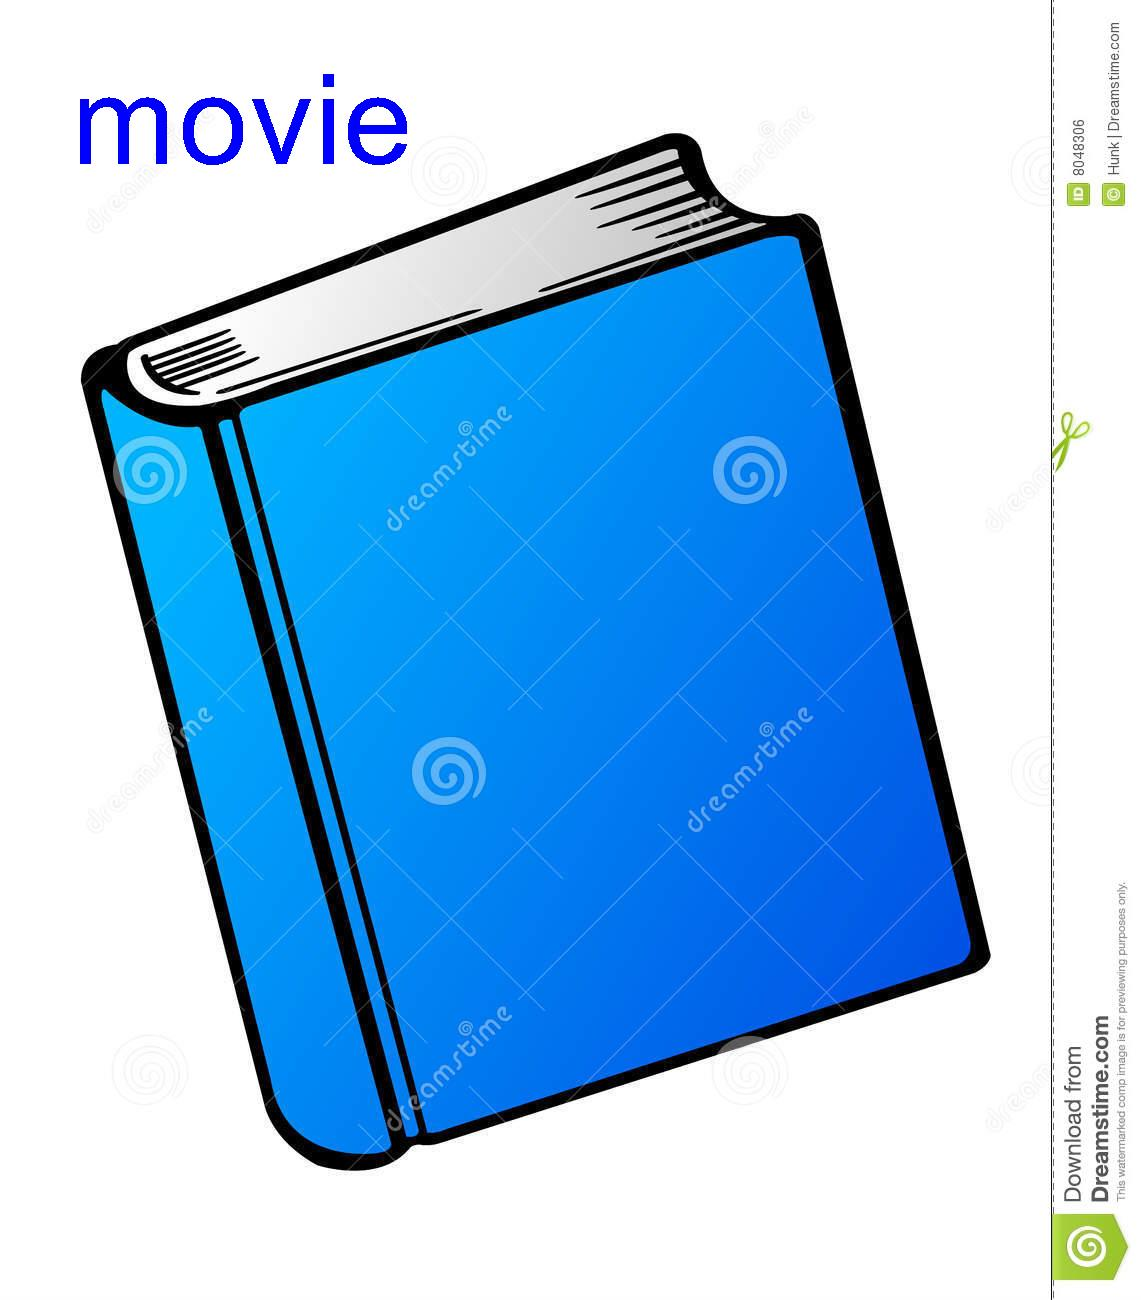
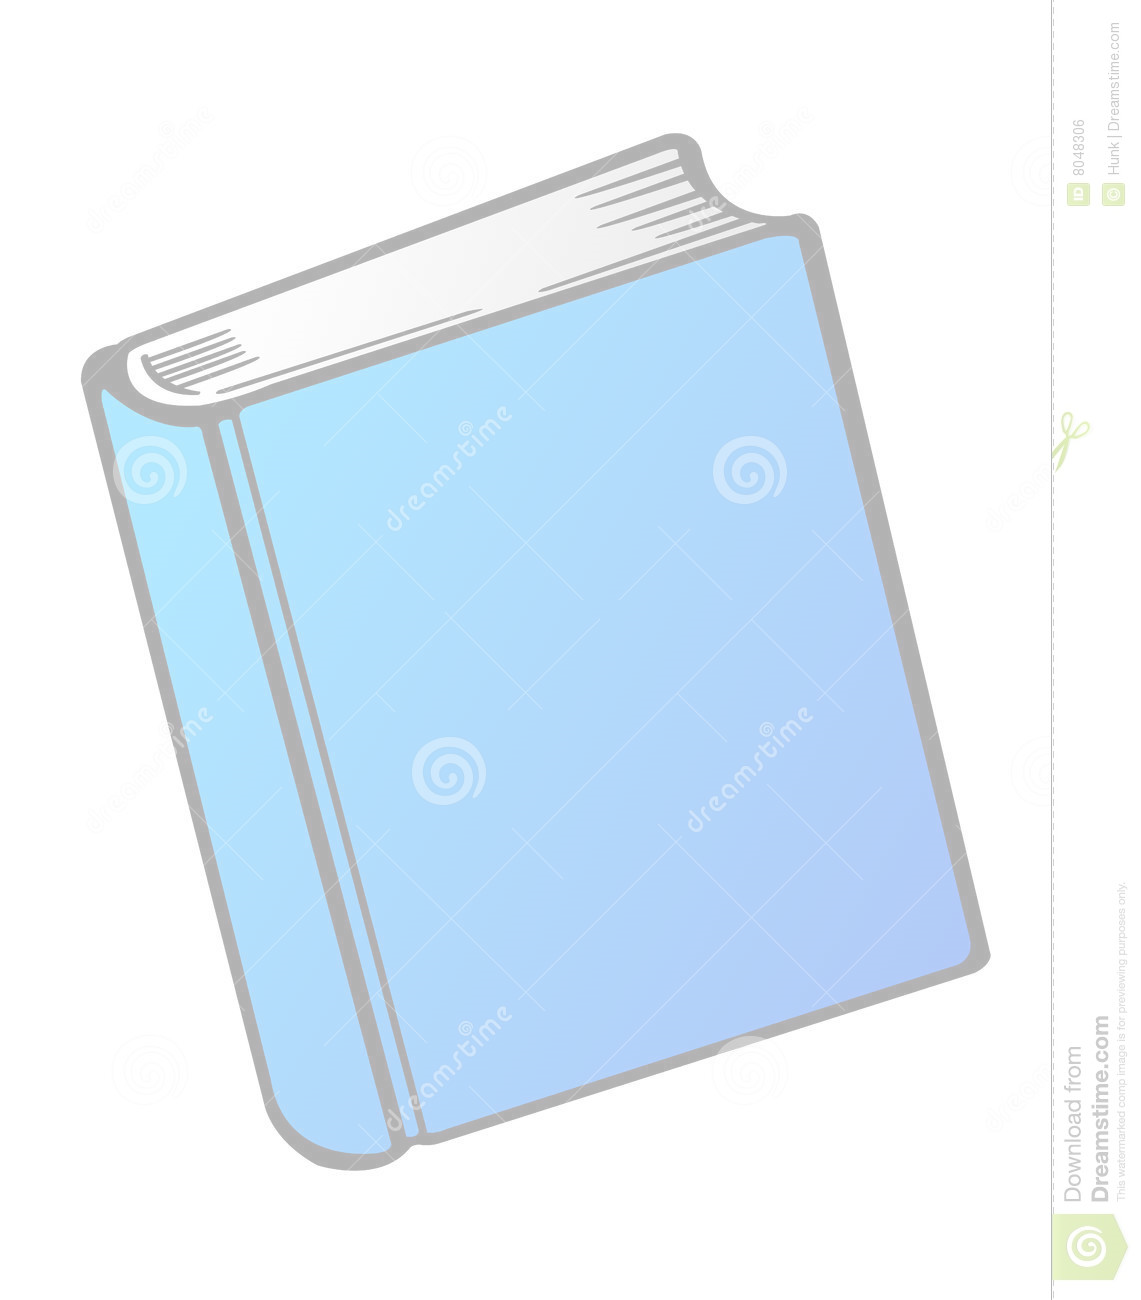
Yiyo 5

diff --git a/Prototype/Retoque.cs b/Prototype/Retoque.cs
@@ -1,6 +1,7 @@
 using System;
 using System.Collections.Generic;
 using System.Drawing;
+using System.Drawing.Imaging;
 using System.IO;
 using System.Text;
 
@@ -40,6 +41,94 @@ namespace Prototype
             img.Ranking = grade;
         }
 
+        //Creates a blank memory Bitmap having the same size dimensions as the source image
+        private static Bitmap GetArgbCopy(Image sourceImage)
+        {
+            Bitmap bmpNew = new Bitmap(sourceImage.Width, sourceImage.Height, PixelFormat.Format32bppArgb);
+
+
+            using (Graphics graphics = Graphics.FromImage(bmpNew))
+            {
+                graphics.DrawImage(sourceImage, new Rectangle(0, 0, bmpNew.Width, bmpNew.Height), new Rectangle(0, 0, bmpNew.Width, bmpNew.Height), GraphicsUnit.Pixel);
+                graphics.Flush();
+            }
+
+
+            return bmpNew;
+        }
+
+        // Agrega a nueva copia la matriz de color
+        private static Bitmap ApplyColorMatrix(Image imag, ColorMatrix colorMatrix)
+        {
+            Bitmap bmp32BppSource = GetArgbCopy(imag);
+            Bitmap bmp32BppDest = new Bitmap(bmp32BppSource.Width, bmp32BppSource.Height, PixelFormat.Format32bppArgb);
+
+
+            using (Graphics graphics = Graphics.FromImage(bmp32BppDest))
+            {
+                ImageAttributes bmpAttributes = new ImageAttributes();
+                bmpAttributes.SetColorMatrix(colorMatrix);
+
+                graphics.DrawImage(bmp32BppSource, new Rectangle(0, 0, bmp32BppSource.Width, bmp32BppSource.Height),
+                                    0, 0, bmp32BppSource.Width, bmp32BppSource.Height, GraphicsUnit.Pixel, bmpAttributes);
+
+
+            }
+
+            bmp32BppSource.Dispose();
+            return bmp32BppDest;
+        }
+        public static Bitmap Trasparente(this Image imag)
+        {
+            ColorMatrix colorMatrix = new ColorMatrix(new float[][]
+            {
+                new float[]{1, 0, 0, 0, 0},
+                new float[]{0, 1, 0, 0, 0},
+                new float[]{0, 0, 1, 0, 0},
+                new float[]{0, 0, 0, 0.3f, 0},
+                new float[]{0, 0, 0, 0, 1}
+            });
+
+            return ApplyColorMatrix(imag, colorMatrix);
+        }
+
+        public static Bitmap BW (this Image sourceImage)
+        {
+            ColorMatrix colorMatrix = new ColorMatrix(new float[][]
+                                {
+                            new float[]{.3f, .3f, .3f, 0, 0},
+                            new float[]{.59f, .59f, .59f, 0, 0},
+                            new float[]{.11f, .11f, .11f, 0, 0},
+                            new float[]{0, 0, 0, 1, 0},
+                            new float[]{0, 0, 0, 0, 1}
+                                });
+
+
+            return ApplyColorMatrix(sourceImage, colorMatrix);
+        }
+
+        public static Image AddFilter(Image img, string imgPath, int decition)
+        {
+            switch (decition)
+            {
+                case 0:
+                    Bitmap bitmap = Trasparente(img);
+                    Image temp = bitmap;
+                    string t = Path.GetFileName(imgPath);
+                    temp.Save(DIR + @"\" + t);
+                    return temp;
+                    break;
+
+                case 1:
+                    Bitmap bitmap1 = BW(img);
+                    Image temp1 = bitmap1;
+                    string t1 = Path.GetFileName(imgPath);
+                    temp1.Save(DIR + @"\" + t1);
+                    return temp1;
+                    break;
+                    
+            }
+        }
 
     }
 }

diff --git a/Prototype/Menu.cs b/Prototype/Menu.cs
@@ -40,6 +40,7 @@ namespace Prototype
             */
             int option = -1;
 
+            //Lista Ediciones
             string[] edit = new string[7];
             edit[0] = "Add Tag";
             edit[1] = "Add Text";
@@ -48,6 +49,12 @@ namespace Prototype
             edit[4] = "Make Fusion";
             edit[5] = "Make Mosaic";
             edit[6] = "Make Collage";
+
+            //Lista Filtros
+            string[] filters = new string[2];
+            filters[0] = "Trasparente";
+            filters[1] = "Black and White";
+
             string imageST = Directory.GetParent(Directory.GetCurrentDirectory()).Parent.Parent.FullName + @"\image";
             string[] diro = Directory.GetFiles(imageST);
             int counter = 0;
@@ -224,6 +231,11 @@ namespace Prototype
                                         Console.WriteLine(h+" has now a score of "+ t2);
                                         break;
                                     case 3:
+                                        Image imag3 = BDE[g].Image;
+                                        string imagePath = BDE[g].Direccionmemoria;
+                                        IOUser.ConsoleListOutput2("what filter would you like to add to " + h + " ?", filters);
+                                        int filterChoice = IOUser.ConsoleReadInput();
+                                        Retoque.AddFilter(imag3, imagePath, filterChoice);
                                         break;
 
                                 }
